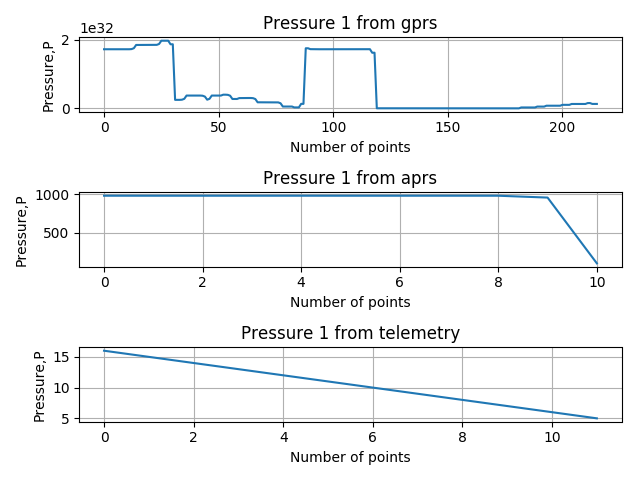
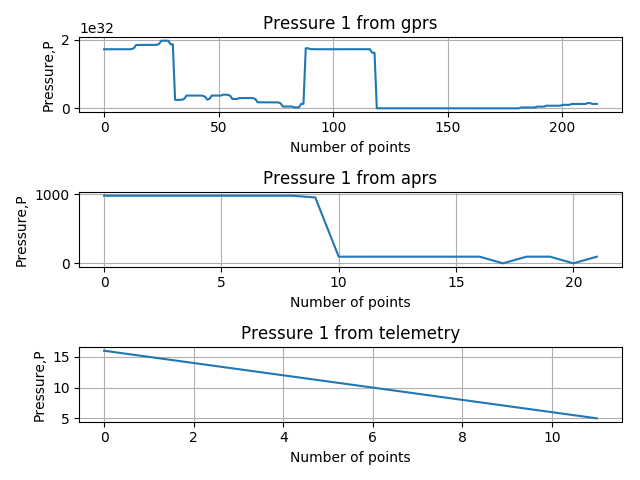
Пофиксил графики, осталось доработать скачку

diff --git a/web/frontend/templates/report.html b/web/frontend/templates/report.html
@@ -22,7 +22,7 @@
 <div class = "chart-container" style = "float: left; position: relative;  width:32vw"> <canvas id = "chart5" > </canvas> </div> 
 </div>
   <form>
-    <p><input onclick="report ()" type="button" value=" Сгенерировать отчёт "></p>
+    <a href="{{ url_for('download', filename='report.zip') }}">Скачать</a>
   </form>
 <script type="text/javascript">
     function report() {

diff --git a/web/backend/modules/report_json.py b/web/backend/modules/report_json.py
@@ -23,28 +23,27 @@ def gprs(mysql):
         e['temp2'] = element[7]
         e['pressure1'] = element[8]
         e['pressure2'] = element[9]
-        e['bat_crg'] = element[10]
-        e['bat_volt'] = element[11]
-        e['bat_temp'] = element[12]
-        e['vect_axel1x'] = element[13]
-        e['vect_axel1y'] = element[14]
-        e['vect_axel1z'] = element[15]
-        e['vect_axel2x'] = element[16]
-        e['vect_axel2y'] = element[17]
-        e['vect_axel2z'] = element[18]
-        e['ultraviolet1'] = element[19]
-        e['ultraviolet2'] = element[20]
-        e['infrared1'] = element[21]
-        e['infrared2'] = element[22]
-        e['hdop'] = element[23]
-        e['vdop'] = element[24]
-        e['sats'] = element[25]
-        e['radiation'] = element[26]
-        e['dust'] = element[27]
-        e['ozone'] = element[28]
+        e['bat_volt'] = element[10]
+        e['bat_temp'] = element[11]
+        e['vect_axel1x'] = element[12]
+        e['vect_axel1y'] = element[13]
+        e['vect_axel1z'] = element[14]
+        e['vect_axel2x'] = element[15]
+        e['vect_axel2y'] = element[16]
+        e['vect_axel2z'] = element[17]
+        e['ultraviolet1'] = element[18]
+        e['ultraviolet2'] = element[19]
+        e['infrared1'] = element[20]
+        e['infrared2'] = element[21]
+        e['hdop'] = element[22]
+        e['vdop'] = element[23]
+        e['sats'] = element[24]
+        e['radiation'] = element[25]
+        e['dust'] = element[26]
+        e['ozone'] = element[27]
         e['status'] = dict()
 
-        s = element[29].split(',')
+        s = element[28].split(',')
         e['status']['datetime'] = s[0]
         e['status']['lat'] = s[1]
         e['status']['lon'] = s[1]
@@ -53,24 +52,23 @@ def gprs(mysql):
         e['status']['temp2'] = s[3]
         e['status']['pressure1'] = s[4]
         e['status']['pressure2'] = s[5]
-        e['status']['bat_crg'] = s[6]
-        e['status']['bat_volt'] = s[7]
-        e['status']['bat_temp'] = s[8]
-        e['status']['vect_axel1x'] = s[9]
-        e['status']['vect_axel1y'] = s[9]
-        e['status']['vect_axel1z'] = s[9]
-        e['status']['vect_axel2x'] = s[10]
-        e['status']['vect_axel2y'] = s[10]
-        e['status']['vect_axel2z'] = s[10]
-        e['status']['ultraviolet1'] = s[11]
-        e['status']['ultraviolet2'] = s[12]
-        e['status']['infrared1'] = s[13]
-        e['status']['infrared2'] = s[14]
-        e['status']['hdop'] = s[15]
-        e['status']['vdop'] = s[16]
-        e['status']['sats'] = s[17]
-        e['status']['radiation'] = s[18]
-        e['status']['ozone'] = s[19]
+        e['status']['bat_volt'] = s[6]
+        e['status']['bat_temp'] = s[7]
+        e['status']['vect_axel1x'] = s[8]
+        e['status']['vect_axel1y'] = s[8]
+        e['status']['vect_axel1z'] = s[8]
+        e['status']['vect_axel2x'] = s[9]
+        e['status']['vect_axel2y'] = s[9]
+        e['status']['vect_axel2z'] = s[9]
+        e['status']['ultraviolet1'] = s[10]
+        e['status']['ultraviolet2'] = s[11]
+        e['status']['infrared1'] = s[12]
+        e['status']['infrared2'] = s[13]
+        e['status']['hdop'] = s[14]
+        e['status']['vdop'] = s[15]
+        e['status']['sats'] = s[16]
+        e['status']['radiation'] = s[17]
+        e['status']['ozone'] = s[18]
         r.append(e)
     w.append(json.dumps(r))
     #print(json.dumps(w))
@@ -97,29 +95,28 @@ def telemetry(mysql):
         e['temp2'] = element[7]
         e['pressure1'] = element[8]
         e['pressure2'] = element[9]
-        e['bat_crg'] = element[10]
-        e['bat_volt'] = element[11]
-        e['bat_temp'] = element[12]
-        e['vect_axel1x'] = element[13]
-        e['vect_axel1y'] = element[14]
-        e['vect_axel1z'] = element[15]
-        e['vect_axel2x'] = element[16]
-        e['vect_axel2y'] = element[17]
-        e['vect_axel2z'] = element[18]
-        e['ultraviolet1'] = element[19]
-        e['ultraviolet2'] = element[20]
-        e['infrared1'] = element[21]
-        e['infrared2'] = element[22]
-        e['hdop'] = element[23]
-        e['vdop'] = element[24]
-        e['sats'] = element[25]
-        e['radiation'] = element[26]
-        e['dust'] = element[27]
-        e['ozone'] = element[28]
+        e['bat_volt'] = element[10]
+        e['bat_temp'] = element[11]
+        e['vect_axel1x'] = element[12]
+        e['vect_axel1y'] = element[13]
+        e['vect_axel1z'] = element[14]
+        e['vect_axel2x'] = element[15]
+        e['vect_axel2y'] = element[16]
+        e['vect_axel2z'] = element[17]
+        e['ultraviolet1'] = element[18]
+        e['ultraviolet2'] = element[19]
+        e['infrared1'] = element[20]
+        e['infrared2'] = element[21]
+        e['hdop'] = element[22]
+        e['vdop'] = element[23]
+        e['sats'] = element[24]
+        e['radiation'] = element[25]
+        e['dust'] = element[26]
+        e['ozone'] = element[27]
         e['status'] = dict()
 
-        #s = element[29].split(',')
-        #e['status']['datetime'] = s[0]
+        s = element[28].split(',')
+        e['status']['datetime'] = s[0]
         #e['status']['lat'] = s[1]
         #e['status']['lon'] = s[1]
         #e['status']['alt'] = s[1]
@@ -127,24 +124,23 @@ def telemetry(mysql):
         #e['status']['temp2'] = s[3]
         #e['status']['pressure1'] = s[4]
         #e['status']['pressure2'] = s[5]
-        #e['status']['bat_crg'] = s[6]
-        #e['status']['bat_volt'] = s[7]
-        #e['status']['bat_temp'] = s[8]
-        #e['status']['vect_axel1x'] = s[9]
-        #e['status']['vect_axel1y'] = s[9]
-        #e['status']['vect_axel1z'] = s[9]
-        #e['status']['vect_axel2x'] = s[10]
-        #e['status']['vect_axel2y'] = s[10]
-        #e['status']['vect_axel2z'] = s[10]
-        #e['status']['ultraviolet1'] = s[11]
-        #e['status']['ultraviolet2'] = s[12]
-        #e['status']['infrared1'] = s[13]
-        #e['status']['infrared2'] = s[14]
-        #e['status']['hdop'] = s[15]
-        #e['status']['vdop'] = s[16]
-        #e['status']['sats'] = s[17]
-        #e['status']['radiation'] = s[18]
-        #e['status']['ozone'] = s[19]
+        #e['status']['bat_volt'] = s[6]
+        #e['status']['bat_temp'] = s[7]
+        #e['status']['vect_axel1x'] = s[8]
+        #e['status']['vect_axel1y'] = s[8]
+        #e['status']['vect_axel1z'] = s[8]
+        #e['status']['vect_axel2x'] = s[9]
+        #e['status']['vect_axel2y'] = s[9]
+        #e['status']['vect_axel2z'] = s[9]
+        #e['status']['ultraviolet1'] = s[10]
+        #e['status']['ultraviolet2'] = s[11]
+        #e['status']['infrared1'] = s[12]
+        #e['status']['infrared2'] = s[13]
+        #e['status']['hdop'] = s[14]
+        #e['status']['vdop'] = s[15]
+        #e['status']['sats'] = s[16]
+        #e['status']['radiation'] = s[17]
+        #e['status']['ozone'] = s[18]
         r.append(e)
     w.append(json.dumps(r))
     #print(json.dumps(w))
@@ -172,13 +168,12 @@ def aprs(mysql):
         e['status'] = dict()
 
         s = element[8].split(',')
-        e['status']['datetime'] = s[0]
-        #e['status']['lat'] = s[1]
-        #e['status']['lon'] = s[1]
-        #e['status']['alt'] = s[1]
-        #e['status']['temp'] = s[2]
-        #e['status']['pressure'] = s[3]
-        #e['status']['modul'] = s[4]
+        e['status']['lat'] = s[0]
+        e['status']['lon'] = s[0]
+        e['status']['alt'] = s[0]
+        e['status']['temp'] = s[1]
+        e['status']['pressure'] = s[2]
+        e['status']['modul'] = s[3]
         r.append(e)
     w.append(json.dumps(r))
     #print(json.dumps(w))

diff --git a/web/backend/modules/create_report.py b/web/backend/modules/create_report.py
@@ -1,3 +1,5 @@
+import matplotlib
+matplotlib.use('Agg')
 import matplotlib.pyplot as plt
 import mpl_toolkits.mplot3d.axes3d as ax3d
 from math import sqrt
@@ -91,7 +93,7 @@ def risovalka_for_3(data1, title1, data2, title2, data3, title3, name, character
     plt.grid()
 
     plt.tight_layout()
-    plt.savefig("modules/img/{}.png".format(name), fmt='png')
+    plt.savefig("backend/modules/img/{}.png".format(name), fmt='png')
 
 
 def risovalka_for_2(data1, title1, data2, title2, name, characteristic):
@@ -117,7 +119,7 @@ def risovalka_for_2(data1, title1, data2, title2, name, characteristic):
     plt.grid()
 
     plt.tight_layout()
-    plt.savefig("modules/img/{}.png".format(name), fmt='png')
+    plt.savefig("backend/modules/img/{}.png".format(name), fmt='png')
 
 def risovalka_for_axes(gx1, gy1, gz1, gx2, gy2, gz2, tx1, ty1, tz1, tx2, ty2, tz2):
     simple_moving_average_axelerometrs(gx1, gy1, gz1)
@@ -139,7 +141,7 @@ def risovalka_for_axes(gx1, gy1, gz1, gx2, gy2, gz2, tx1, ty1, tz1, tx2, ty2, tz
     ax.plot(gx1, gy1, gz1, color='green')
     ax.scatter(gx1[0], gy1[0], gz1[0])
     ax.scatter(gx1[length_list - 1], gy1[length_list - 1], gz1[length_list - 1], color='red')
-    plt.savefig("modules/img/trajectory.png", fmt='png')
+    plt.savefig("backend/modules/img/trajectory.png", fmt='png')
 
     fig1 = plt.figure()  # графики изменения проекций ускорения по 3 осям
     plt.subplot(311)
@@ -197,7 +199,7 @@ def risovalka_for_axes(gx1, gy1, gz1, gx2, gy2, gz2, tx1, ty1, tz1, tx2, ty2, tz
     plt.grid()
 
     plt.tight_layout()
-    plt.savefig("modules/img/XYZprojectionFirstAxel.png", fmt='png')
+    plt.savefig("backend/modules/img/XYZprojectionFirstAxel.png", fmt='png')
 
     fig1 = plt.figure()  # графики изменения проекций ускорения по 3 осям
     plt.subplot(321)
@@ -255,7 +257,7 @@ def risovalka_for_axes(gx1, gy1, gz1, gx2, gy2, gz2, tx1, ty1, tz1, tx2, ty2, tz
     plt.grid()
 
     plt.tight_layout()
-    plt.savefig("modules/img/XYZprojectionSecondAxel.png", fmt='png')
+    plt.savefig("backend/modules/img/XYZprojectionSecondAxel.png", fmt='png')
 
 def execute_from_db3(n,m,gprs,aprs,telemetry):
     data1 = []

diff --git a/web/backend/app.py b/web/backend/app.py
@@ -1,4 +1,4 @@
-from flask import Flask,request, render_template
+from flask import Flask,request, render_template, send_from_directory
 from flask.ext.mysql import MySQL
 import sys
 import os
@@ -12,6 +12,8 @@ import aprslib
 import urllib.request
 from modules import create_report
 from modules import archivator
+from subprocess import Popen, PIPE
+
 app = Flask(__name__)
 app.config['MYSQL_DATABASE_HOST'] = os.getenv("MYSQL_DATABASE_HOST", "0")
 app.config['MYSQL_DATABASE_PORT'] = int(os.getenv("MYSQL_DATABASE_PORT", "0"))
@@ -23,6 +25,7 @@ app.config['MYSQL_DATABASE_DB'] = os.getenv("MYSQL_DATABASE_DB", "0")
 
 app.template_folder = '../frontend/templates/'
 app.static_folder = "../frontend/static/"
+
 socketio = SocketIO(app)
 mysql = MySQL(app)
 is_dev = int(os.getenv("DEV", "0"))
@@ -56,6 +59,14 @@ def report():
 @app.route("/telemetriya",methods=['GET'])
 def telem():
     return parsing.parsing_telem(mysql)
+
+@app.route('/<path:filename>')
+def download(filename):
+    create_report.getData(mysql)
+    archivator.img_zip()
+    print(filename)
+    print(os.getcwd())
+    return send_from_directory('/modules/', filename)
 
 # @socketio.on('create_report', namespace='/report')
 # def report_create():
@@ -101,7 +112,6 @@ def msg():
 
 if __name__ == '__main__':
     mysql.init_app(app)
-    #create_report.getData(mysql) #генерация картинок, пока без архива
     if is_dev == 1:
         socketio.run(app, host='0.0.0.0', debug=True)
     else:
